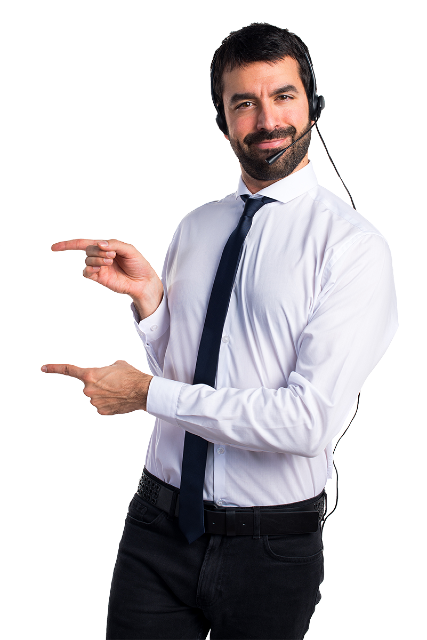
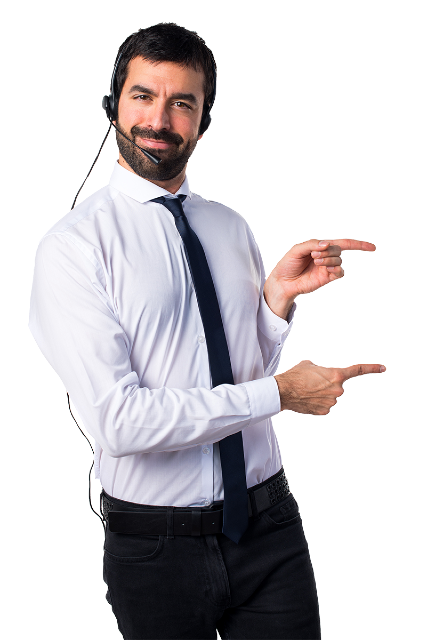
modificación de imagen en sección contacto porque no aparece

diff --git a/assets/css/style.css b/assets/css/style.css
@@ -110,8 +110,7 @@
     margin-bottom: 15px;
     margin-top: 15px; }
   .contacto__encuentranos__img {
-    max-height: 350px;
-    transform: rotateY(180deg); }
+    max-height: 350px; }
 
 .seccion__contacto {
   background-color: #eeecf8;

diff --git a/sass/views/_contacto.scss b/sass/views/_contacto.scss
@@ -91,7 +91,7 @@
         }
         &__img{
             max-height: 350px;
-            transform: rotateY(180deg);
+
         }
     }
 }
